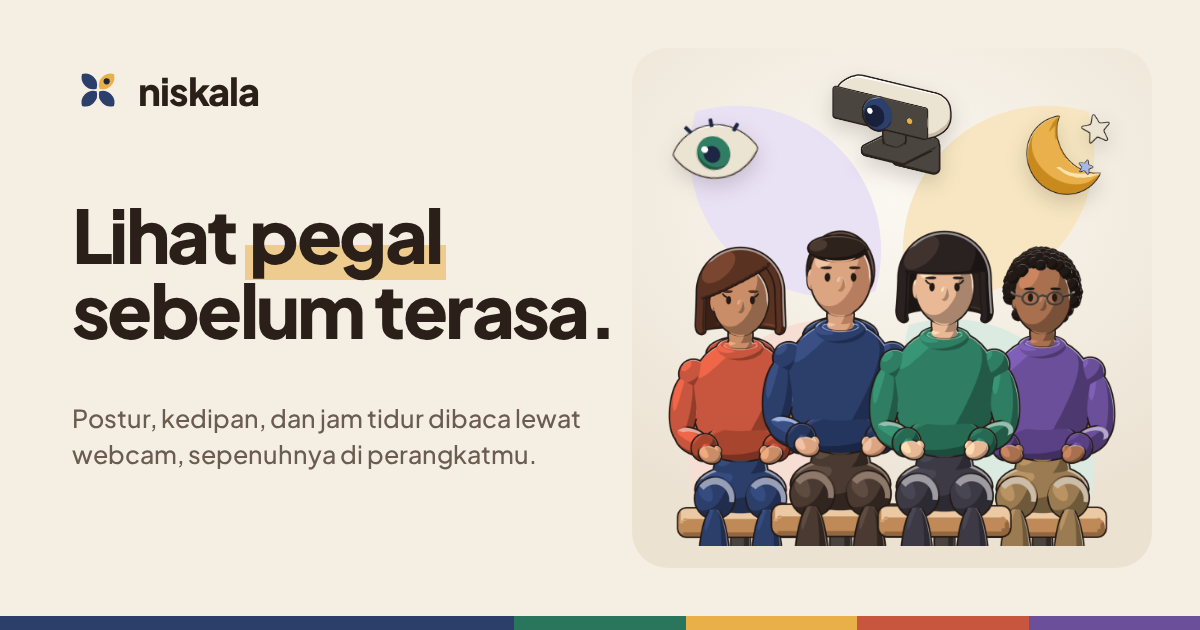
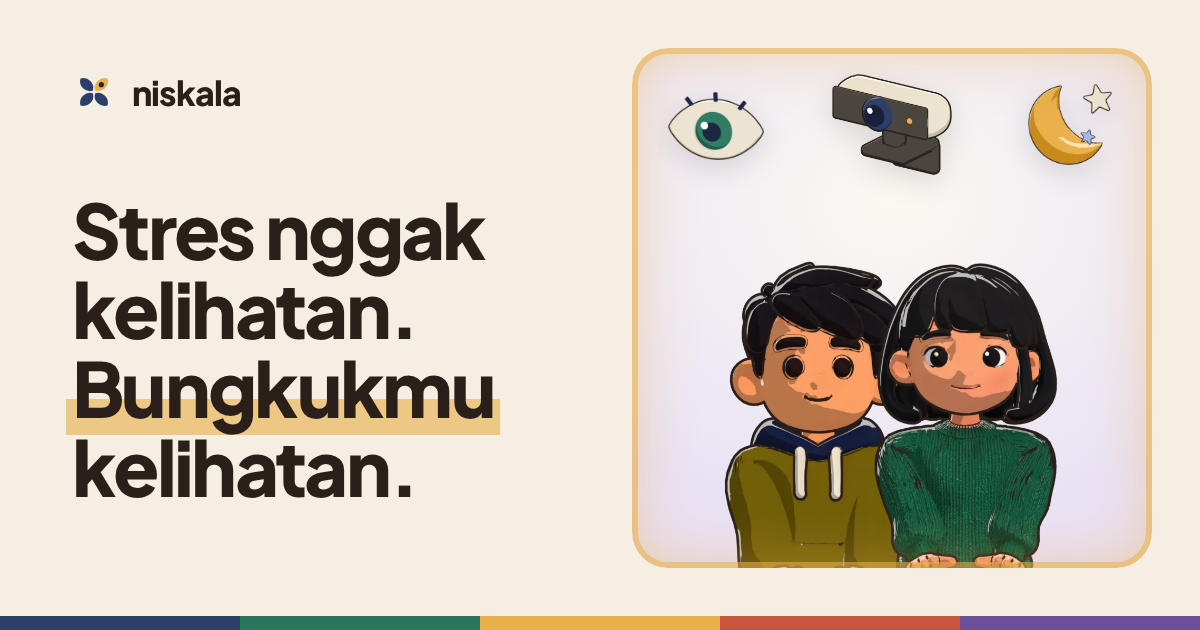
copy(meta): titles and descriptions about mental health, and a share image with Raka and Ayu and the new headline

diff --git a/app/layout.tsx b/app/layout.tsx
@@ -10,11 +10,11 @@ import './globals.css';
 const jakarta = Plus_Jakarta_Sans({ variable: '--font-jakarta', subsets: ['latin'] });
 
 const description =
-  'Cek postur (bungkuk atau miring) dan kedipan lewat webcam, semuanya di perangkatmu. Pinggir layar nyala pelan, bukan pop-up. Plus stretching 60 detik, istirahat mata, dan layar hangat menjelang tidur.';
+  'Stres nggak kelihatan, tapi badan dan kebiasaan kerjamu kelihatan. Niskala ngecek postur dan kedipan lewat webcam di perangkatmu, ngajak jeda napas dan stretching, dan nunjukin dari datamu sendiri gimana jeda ngaruh ke stresmu.';
 
 export const metadata: Metadata = {
   metadataBase: new URL(SITE_URL),
-  title: { default: 'Niskala: jaga postur dan mata di depan layar', template: '%s · Niskala' },
+  title: { default: 'Niskala: jaga kesehatan mental lewat badan dan kebiasaan kerja', template: '%s · Niskala' },
   description,
   applicationName: 'Niskala',
   openGraph: { type: 'website', locale: 'id_ID', siteName: 'Niskala', title: 'Niskala', description },

diff --git a/app/app/page.tsx b/app/app/page.tsx
@@ -4,7 +4,7 @@ import Workspace from '@/components/workspace';
 
 export const metadata: Metadata = {
   title: 'Ruang Kerja',
-  description: 'Pelacakan postur dan kedipan langsung, pengingat jeda, dan layar hangat menjelang tidur. Berjalan sepenuhnya di browser.',
+  description: 'Postur dan kedipan langsung, jeda napas, cek stres harian, kabar mingguan, dan layar hangat menjelang tidur. Berjalan sepenuhnya di browser.',
 };
 
 export default function AppPage() {

diff --git a/app/manifest.ts b/app/manifest.ts
@@ -4,7 +4,7 @@ export default function manifest(): MetadataRoute.Manifest {
   return {
     name: 'Niskala',
     short_name: 'Niskala',
-    description: 'Pengingat postur, kedip, dan jam tidur buat yang lama di depan layar. Jalan sepenuhnya di perangkatmu.',
+    description: 'Jaga kesehatan mental lewat badan dan kebiasaan kerja di depan layar. Jalan sepenuhnya di perangkatmu.',
     lang: 'id',
     start_url: '/app',
     display: 'standalone',

diff --git a/app/riwayat/page.tsx b/app/riwayat/page.tsx
@@ -4,7 +4,7 @@ import SiteFooter from '@/components/site-footer';
 
 export const metadata: Metadata = {
   title: 'Riwayat',
-  description: 'Waktu di layar, postur, dan jeda selama beberapa minggu terakhir, dari data yang kesimpan di browsermu.',
+  description: 'Waktu di layar, postur, jeda, dan stres selama beberapa minggu terakhir, dari data yang kesimpan di browsermu.',
 };
 
 export default function HistoryPage() {
